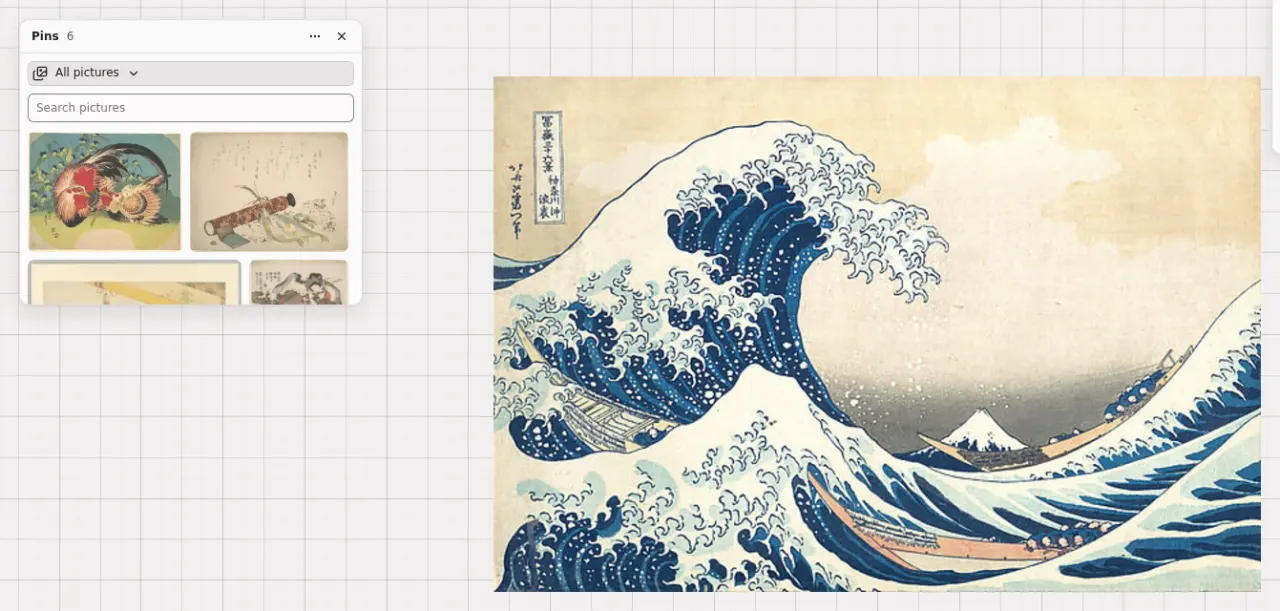
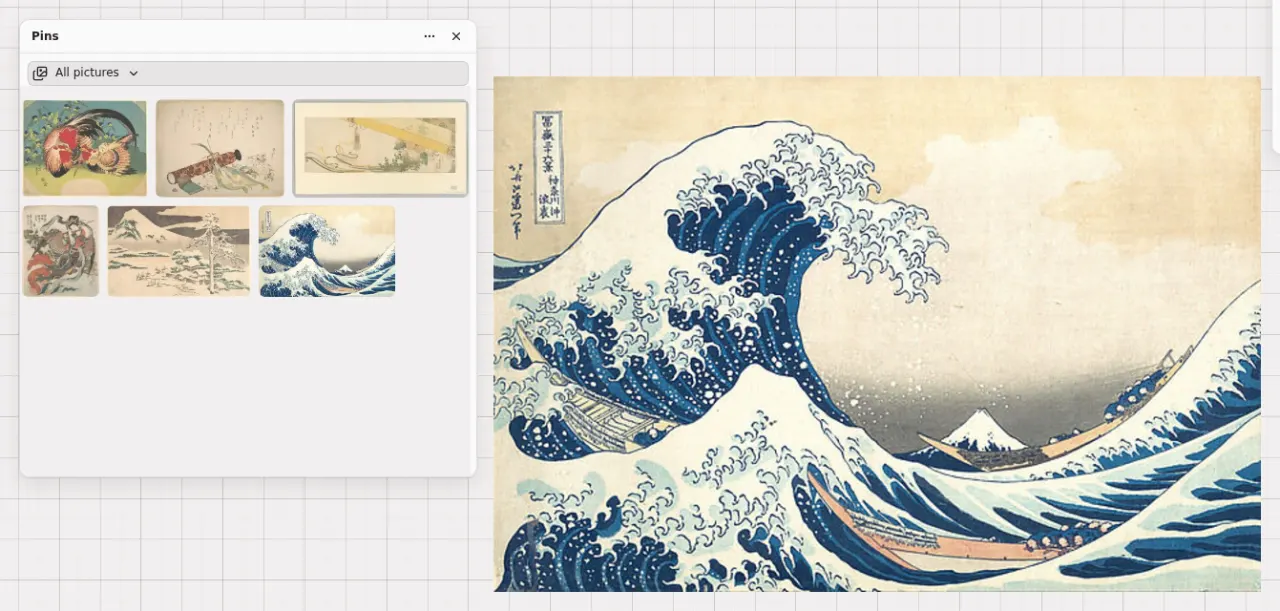
fix(storage): Start from scratch writes nothing of canvast back before the reload; test(pins): no Escape after a menu row; docs: Pins grid picture (v0.61.61)

Changed region(s): [[0.0, 0.1244, 0.375, 0.5286]]

diff --git a/tests/e2e/pins.spec.ts b/tests/e2e/pins.spec.ts
@@ -89,7 +89,7 @@ test("a Pins window shows pictures of the library as the Library's own grid, the
   await expect(p.locator('.pop-menu [data-command="library.place"]'), "no Place in a Pins window").toHaveCount(0);
   await p.locator('.pop-menu [data-command="library.favorite"]').click();
   await expect.poll(async () => (await p.evaluate(() => window.__canvastDebug.catalogEntries())).filter((e) => e.favorite).length, { message: "made a favourite from the Pins window" }).toBe(1);
-  await p.keyboard.press("Escape"); // (the menu)
+  await expect(p.locator(".pop-menu"), "the menu closes with its row").toHaveCount(0); // (an Escape now would close the viewer)
   await pins.locator('[data-act="close"]').click();
   await expect(cards).toHaveCount(2);
   // the main view is still the canvas, and the Library view kept its own state

diff --git a/src/storage/reset.ts b/src/storage/reset.ts
@@ -30,6 +30,11 @@ export async function resetAllData(o: ResetOptions): Promise<void> {
     });
   }
   if (!o.keepSettings) try {
+    // (until the reload, nothing of canvast is written back: a save timed before, the dock's or the settings', would bring it back)
+    const set = Storage.prototype.setItem;
+    Storage.prototype.setItem = function (this: Storage, k: string, v: string): void {
+      if (!k.startsWith("canvast") || k === "canvast-writer-lease") set.call(this, k, v);
+    };
     for (const k of Object.keys(localStorage)) if (k.startsWith("canvast")) localStorage.removeItem(k);
     for (const k of Object.keys(sessionStorage)) if (k.startsWith("canvast")) sessionStorage.removeItem(k);
   } catch {

diff --git a/CHANGELOG.md b/CHANGELOG.md
@@ -1,5 +1,14 @@
 # Changelog
 
+## 0.61.61 — Start from scratch leaves nothing behind (2026-11-23)
+
+- **Fixed:** Start from scratch could leave canvast's settings behind: a save timed just before (the panels' places, a setting) was written again between the deletion and the reload. Nothing of canvast is written until the page has reloaded. ([Your workspace and data](README.md#your-workspace-and-data))
+- **Docs:** the Pins picture shows the Library's grid in the window. ([Pins](README.md#pins))
+
+### For developers
+
+- `pins.spec.ts`: the viewer's menu closes with its row (no Escape after it, which closed the viewer and left the test waiting for its back arrow).
+
 ## 0.61.60 — A Pins window sizes smoothly (2026-11-23)
 
 - **Fixed before release:** sizing a Pins window made its canvas again and drew it at every step, so the grip lagged: its picture stretches while it is sized and is drawn again once it rests. ([Pins](README.md#pins))
